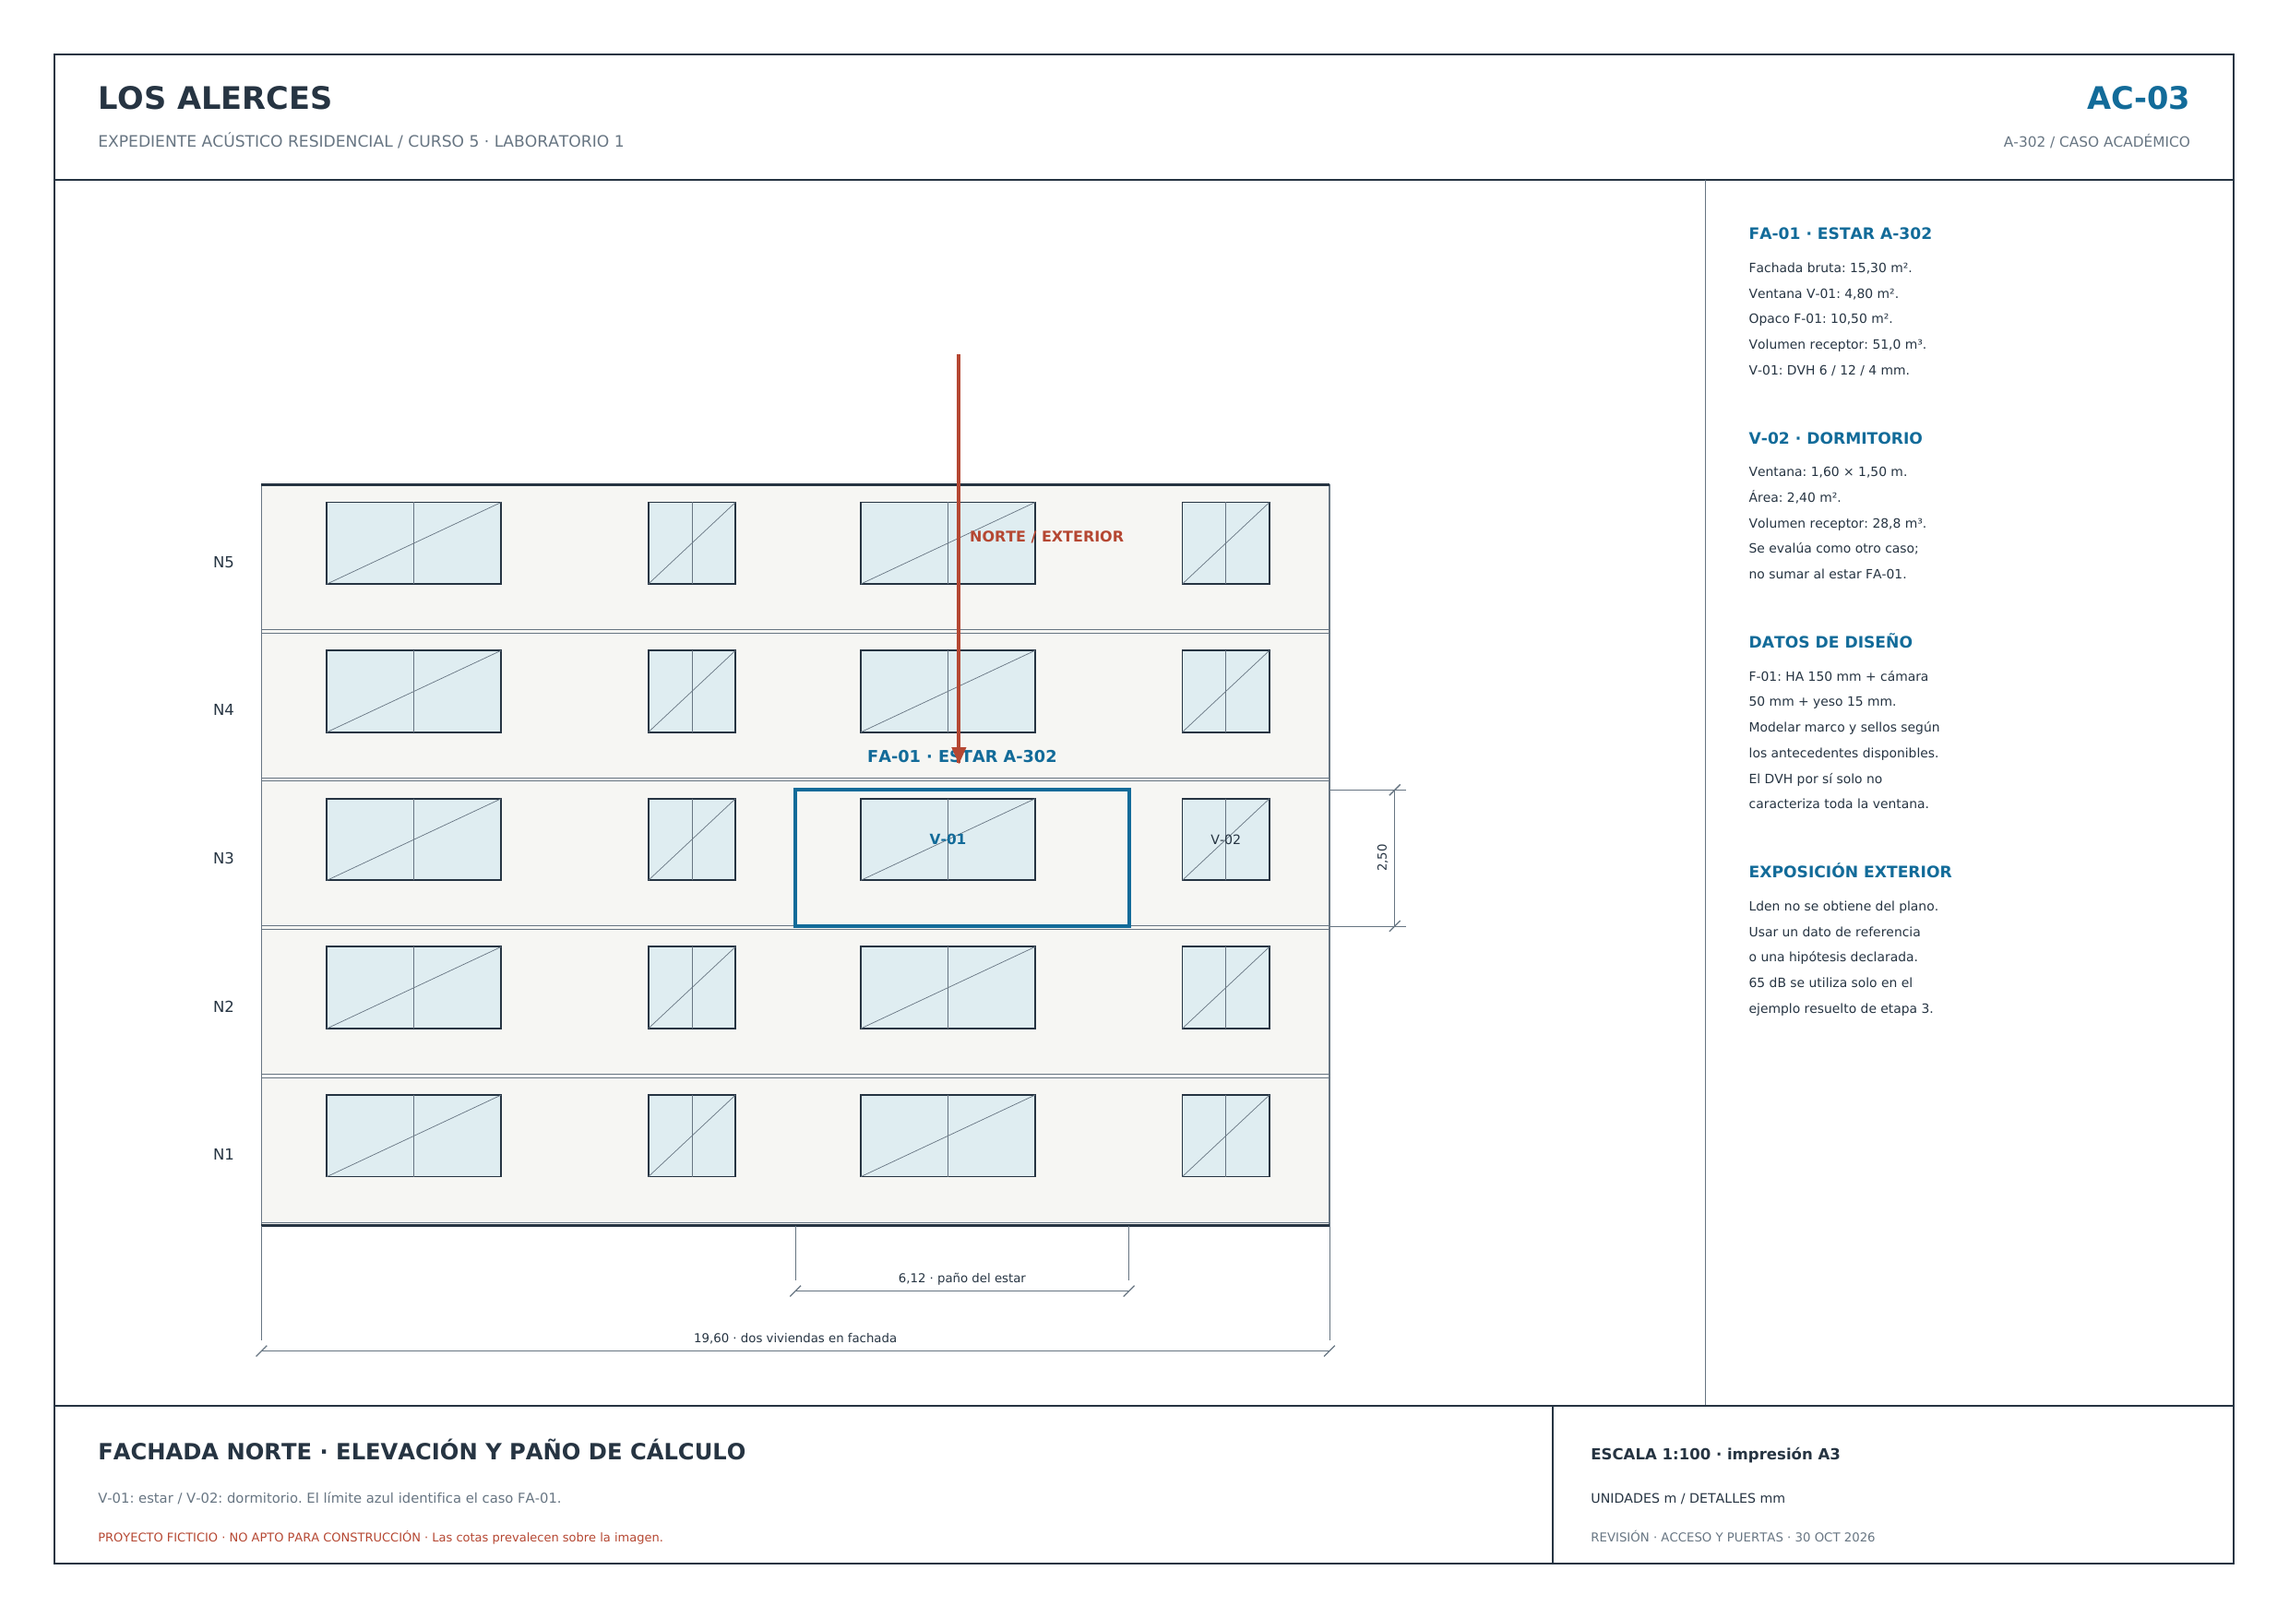
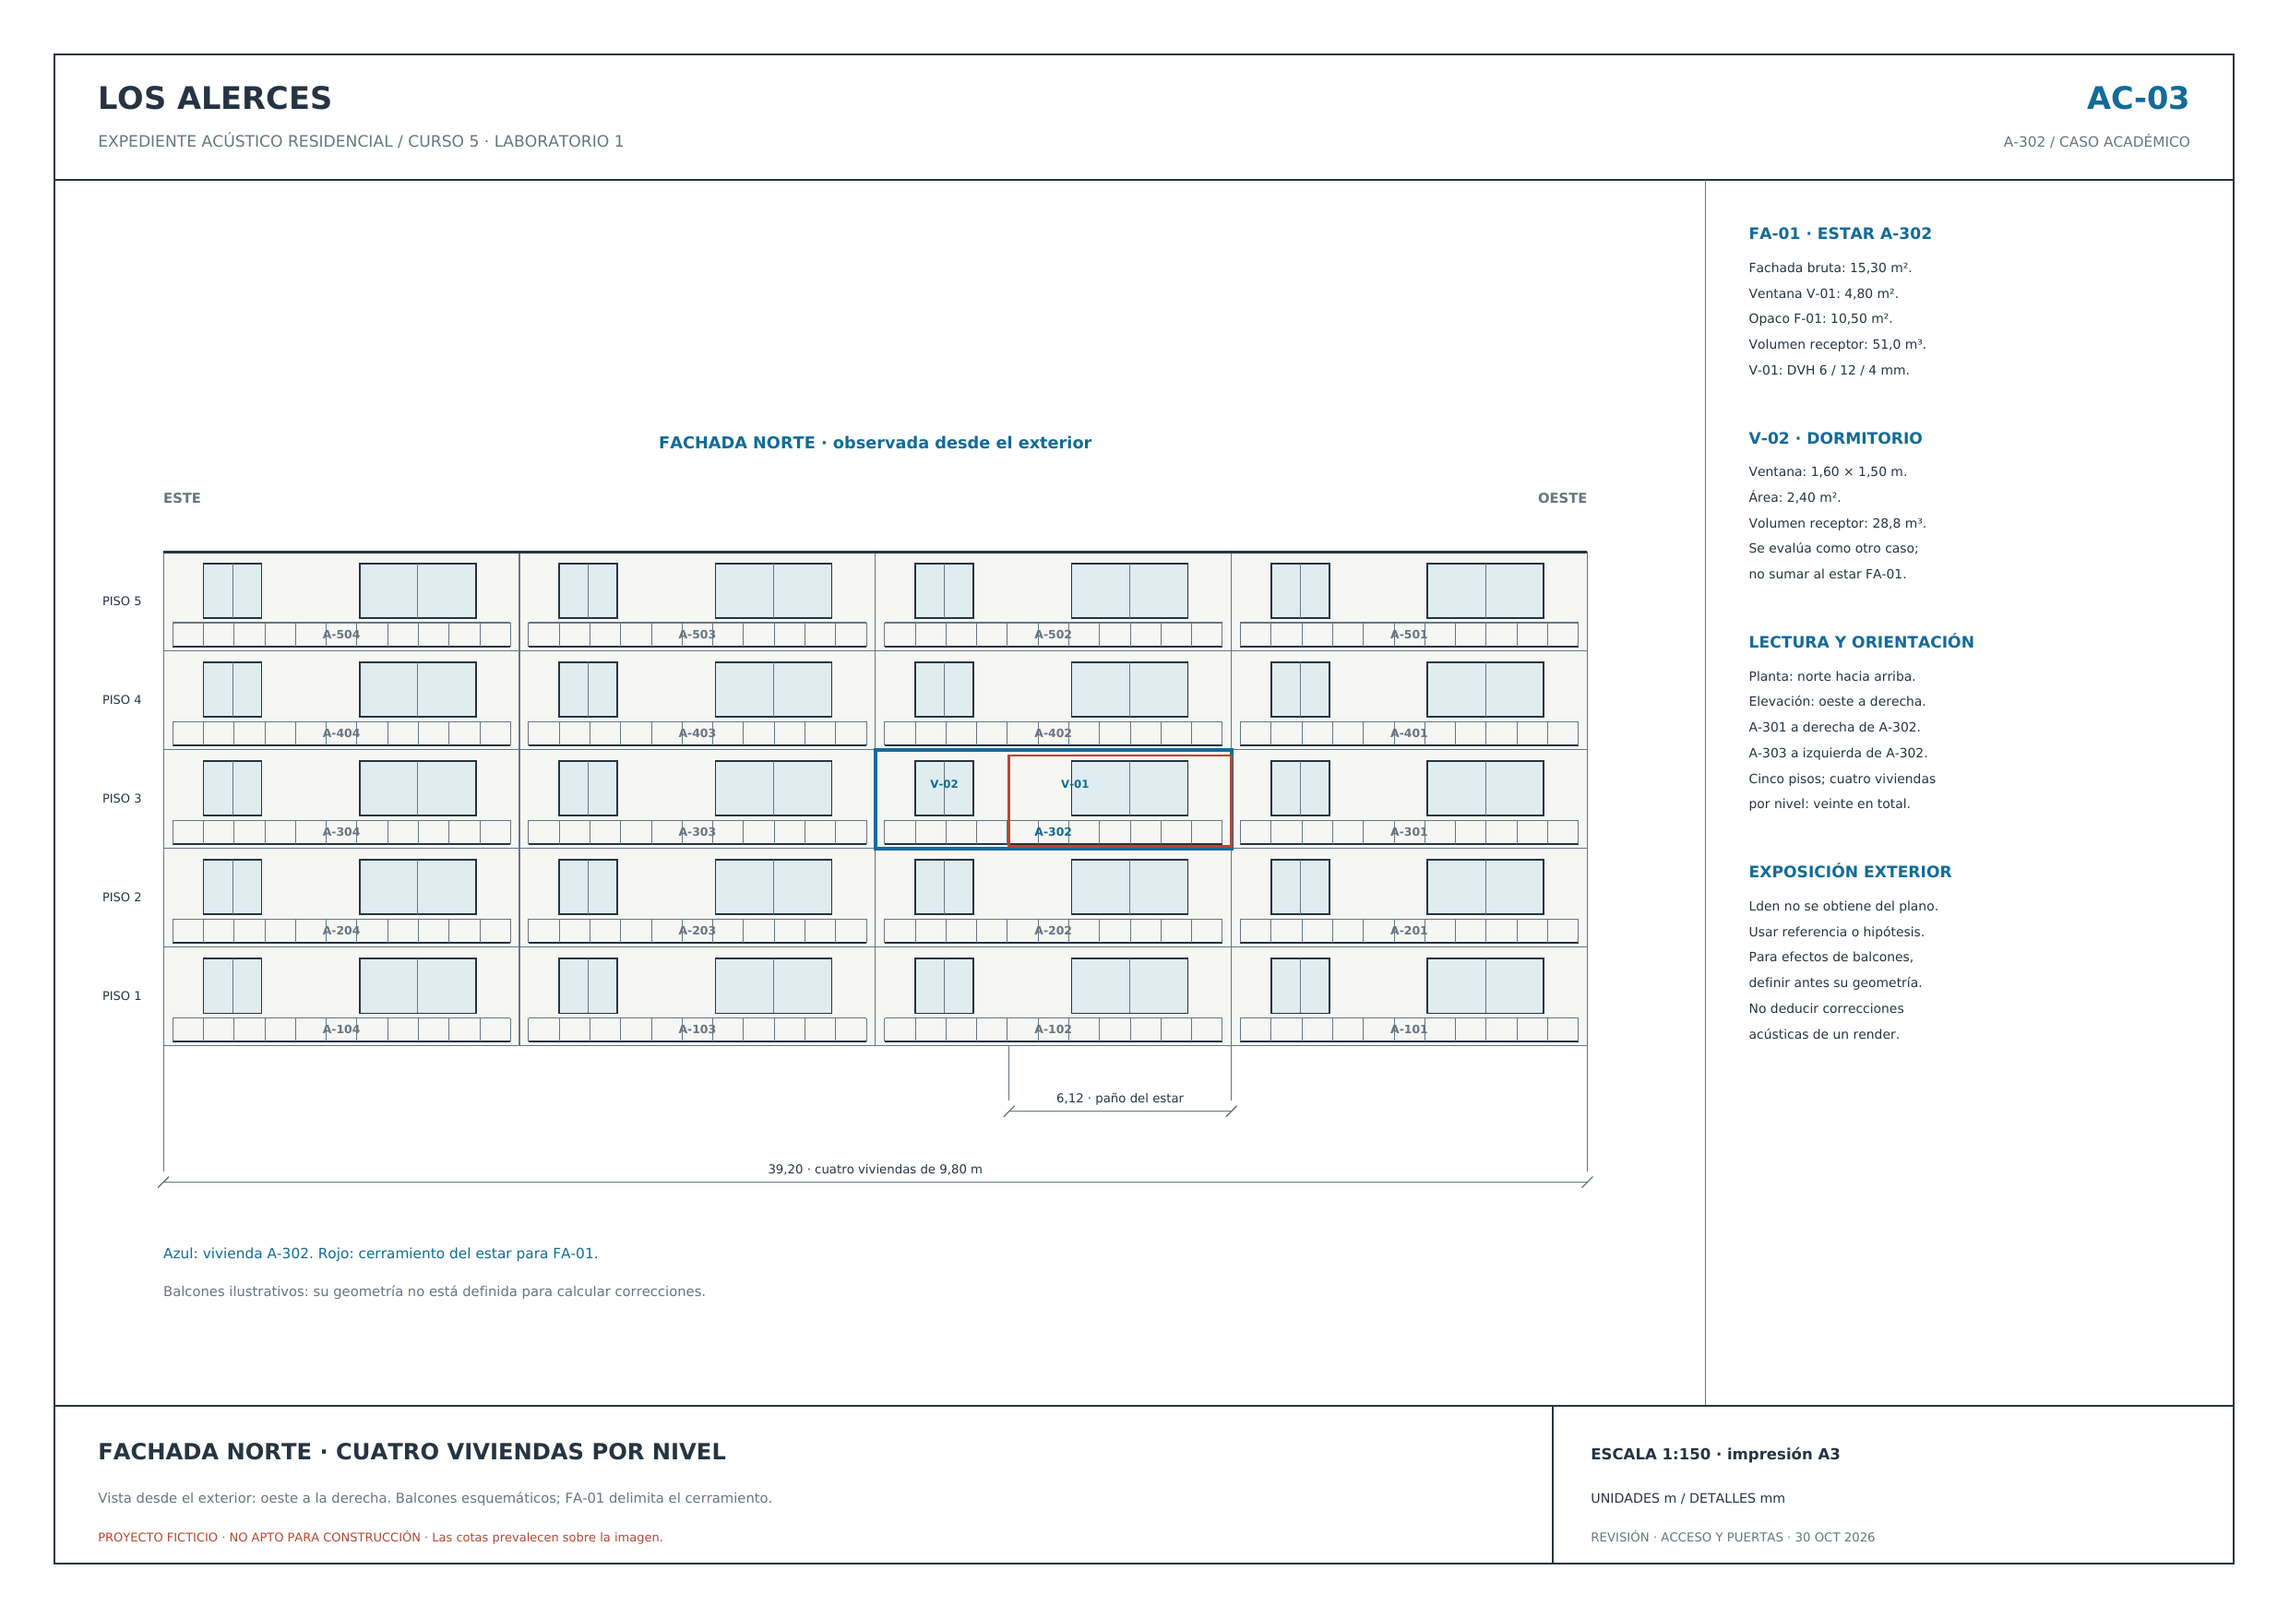
Align north elevation with four dwellings and mirror exterior window orientation

diff --git a/scripts/build_c5l1_drawings.py b/scripts/build_c5l1_drawings.py
@@ -198,34 +198,47 @@ def section():
     end()
 
 def elevation():
-    frame('AC-03','FACHADA NORTE · ELEVACIÓN Y PAÑO DE CÁLCULO','V-01: estar / V-02: dormitorio. El límite azul identifica el caso FA-01.','1:100 · impresión A3')
-    k=10;bx=48;by=72;bw=19.6*k
+    frame('AC-03','FACHADA NORTE · CUATRO VIVIENDAS POR NIVEL','Vista desde el exterior: oeste a la derecha. Balcones esquemáticos; FA-01 delimita el cerramiento.','1:150 · impresión A3')
+    k=1000/150;bx=30;by=105;bw=39.2*k
     for level in range(5):
         yy=by+level*2.72*k
         rect(bx,yy,bw,2.72*k,'#f6f6f3',GRAY,.2)
-        line(bx,yy+.06*k,bx+bw,yy+.06*k,GRAY,.15)
-        for half in (0,1):
-            xx=bx+half*9.8*k
+        for bay in range(4):
+            xx=bx+bay*9.8*k
+            line(xx,yy,xx,yy+2.72*k,GRAY,.2)
+            # Exterior north view mirrors the north-up plan's x coordinates.
             for wx,ww in [(1.2,3.2),(7.1,1.6)]:
-                rect(xx+wx*k,yy+.9*k,ww*k,1.5*k,'#dfedf1',INK,.3)
-                line(xx+(wx+ww/2)*k,yy+.9*k,xx+(wx+ww/2)*k,yy+2.4*k,GRAY,.15)
-                line(xx+wx*k,yy+.9*k,xx+(wx+ww)*k,yy+2.4*k,GRAY,.12)
-        text(bx-5,yy+1.2*k,f'N{level+1}',2.8,align='right')
+                vx=xx+(9.8-wx-ww)*k
+                rect(vx,yy+.9*k,ww*k,1.5*k,'#dfedf1',INK,.3)
+                line(vx+ww*k/2,yy+.9*k,vx+ww*k/2,yy+2.4*k,GRAY,.15)
+            # Balcony railings are contextual, not added to the acoustic wall area.
+            rail=yy+.12*k
+            line(xx+.25*k,rail,xx+9.55*k,rail,INK,.35)
+            line(xx+.25*k,rail+.65*k,xx+9.55*k,rail+.65*k,GRAY,.25)
+            for n in range(12):
+                rx=xx+(.25+n*9.3/11)*k
+                line(rx,rail,rx,rail+.65*k,GRAY,.12)
+            text(xx+4.9*k,yy+.34*k,f'A-{level+1}0{4-bay}',2.1,BLUE if (level==2 and bay==2) else GRAY,True,'center')
+        text(bx-4,yy+1.25*k,f'PISO {level+1}',2.2,align='right')
     line(bx,by+13.6*k,bx+bw,by+13.6*k,INK,.6)
-    line(bx,by,bx+bw,by,INK,.5)
-    xx=bx+9.8*k;yy=by+2*2.72*k+.06*k
-    rect(xx,yy,6.12*k,2.5*k,None,BLUE,.65)
-    text(xx+3.06*k,yy+2.5*k+5,'FA-01 · ESTAR A-302',3,BLUE,True,'center')
-    text(xx+2.8*k,yy+1.5*k,'V-01',2.6,BLUE,True,'center')
-    text(xx+7.9*k,yy+1.5*k,'V-02',2.4,align='center')
+    # A-302 is second from west, hence third from left in this exterior view.
+    unit=bx+2*9.8*k; yy=by+2*2.72*k
+    rect(unit,yy,9.8*k,2.72*k,None,BLUE,.65)
+    xx=unit+3.68*k
+    rect(xx,yy+.06*k,6.12*k,2.5*k,None,RED,.45)
+    text(unit+1.9*k,yy+1.65*k,'V-02',2,BLUE,True,'center')
+    text(unit+5.5*k,yy+1.65*k,'V-01',2,BLUE,True,'center')
     dimh(xx,xx+6.12*k,by-12,'6,12 · paño del estar',by)
-    dimh(bx,bx+bw,by-23,'19,60 · dos viviendas en fachada',by)
-    dimv(yy,yy+2.5*k,bx+bw+12,'2,50',bx+bw)
-    arrow(xx+30,by+13.6*k+24,xx+30,yy+30,'NORTE / EXTERIOR')
+    dimh(bx,bx+bw,by-25,'39,20 · cuatro viviendas de 9,80 m',by)
+    text(bx,by+13.6*k+9,'ESTE',2.5,GRAY,True)
+    text(bx+bw,by+13.6*k+9,'OESTE',2.5,GRAY,True,'right')
+    text(bx+bw/2,by+13.6*k+19,'FACHADA NORTE · observada desde el exterior',3,BLUE,True,'center')
+    text(bx,by-39,'Azul: vivienda A-302. Rojo: cerramiento del estar para FA-01.',2.6,BLUE)
+    text(bx,by-46,'Balcones ilustrativos: su geometría no está definida para calcular correcciones.',2.5,GRAY)
     y=note(253,'FA-01 · ESTAR A-302',['Fachada bruta: 15,30 m².','Ventana V-01: 4,80 m².','Opaco F-01: 10,50 m².','Volumen receptor: 51,0 m³.','V-01: DVH 6 / 12 / 4 mm.'])
     y=note(y,'V-02 · DORMITORIO',['Ventana: 1,60 × 1,50 m.','Área: 2,40 m².','Volumen receptor: 28,8 m³.','Se evalúa como otro caso;','no sumar al estar FA-01.'])
-    y=note(y,'DATOS DE DISEÑO',['F-01: HA 150 mm + cámara','50 mm + yeso 15 mm.','Modelar marco y sellos según','los antecedentes disponibles.','El DVH por sí solo no','caracteriza toda la ventana.'])
-    note(y,'EXPOSICIÓN EXTERIOR',['Lden no se obtiene del plano.','Usar un dato de referencia','o una hipótesis declarada.','65 dB se utiliza solo en el','ejemplo resuelto de etapa 3.'])
+    y=note(y,'LECTURA Y ORIENTACIÓN',['Planta: norte hacia arriba.','Elevación: oeste a derecha.','A-301 a derecha de A-302.','A-303 a izquierda de A-302.','Cinco pisos; cuatro viviendas','por nivel: veinte en total.'])
+    note(y,'EXPOSICIÓN EXTERIOR',['Lden no se obtiene del plano.','Usar referencia o hipótesis.','Para efectos de balcones,','definir antes su geometría.','No deducir correcciones','acústicas de un render.'])
     end()
 
 def details():
